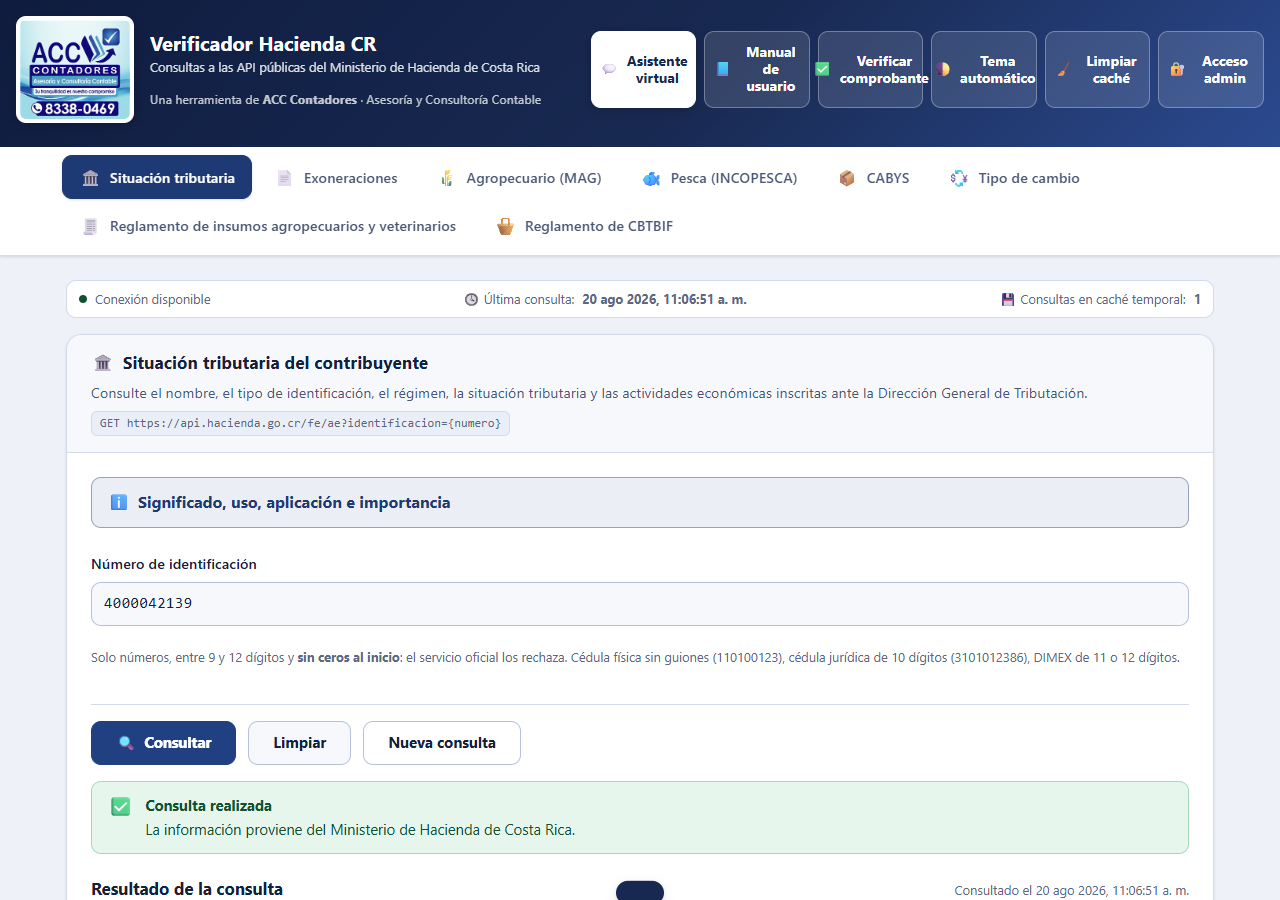
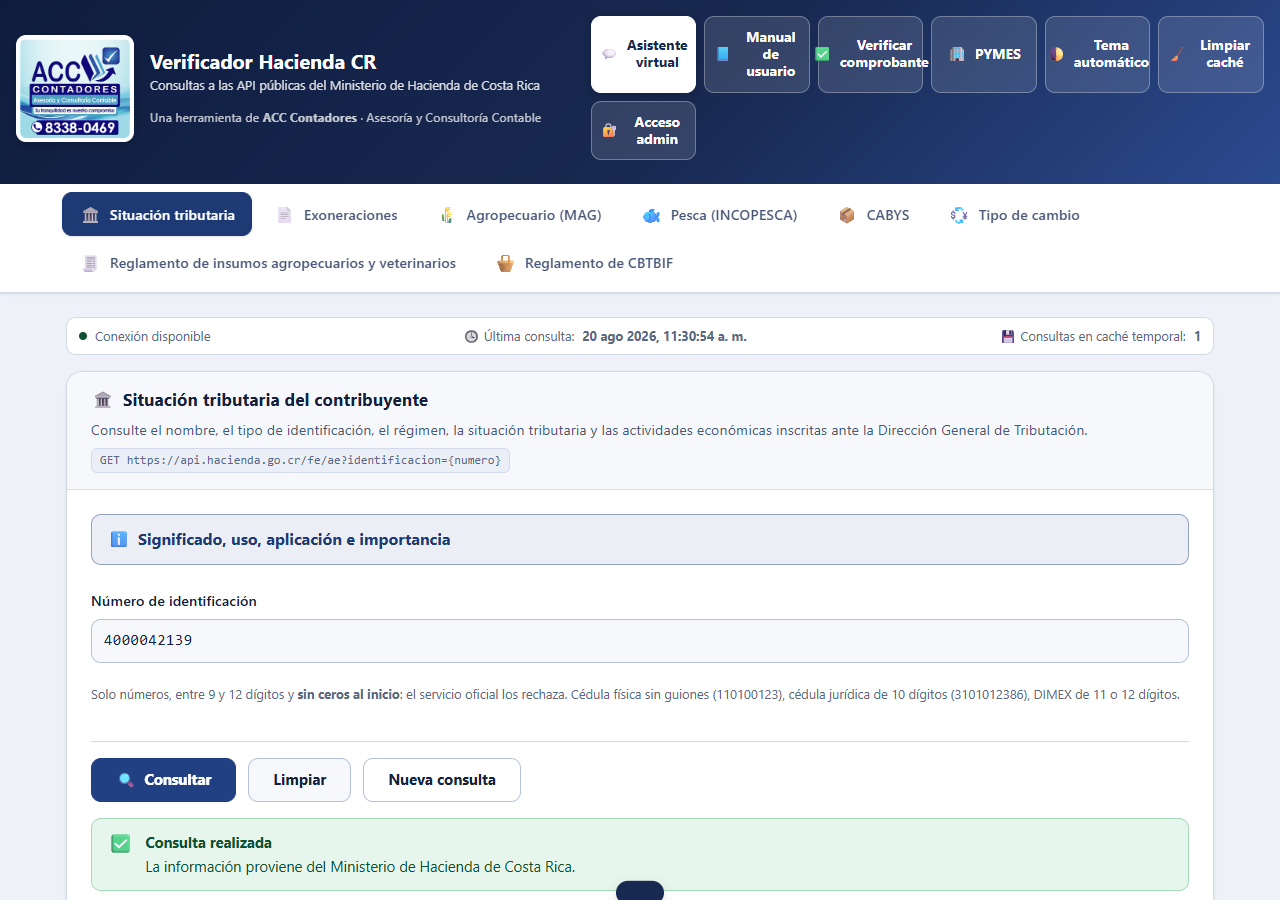
Agrega acceso al buscador oficial de PYMES activas (MEIC)
Enlaza a meic.go.cr/tramites-y-servicios/pymes-activas/, el buscador
en vivo del Ministerio de Economía, Industria y Comercio (41 000+
registros, actualizado a diario), en vez de incrustar una fotografía
mensual: el archivo descargable que publica MEIC pesa más de 10 MB y
ni él ni la tabla que lo sirve envían cabeceras CORS, así que no se
puede leer desde un fetch() en github.io. El botón sigue el mismo
patrón que «Verificar comprobante»: enlace de navegación deliberado,
abierto en pestaña nueva.

Changed region(s): [[0.0, 0.0, 1.0, 0.9956]]

diff --git a/index.html b/index.html
@@ -881,6 +881,13 @@ details.raw-wrap > summary{
         <span aria-hidden="true">✅</span>
         <span>Verificar comprobante</span>
       </a>
+      <a class="tool-btn" id="btn-pymes"
+         href="https://www.meic.go.cr/tramites-y-servicios/pymes-activas/"
+         target="_blank" rel="noopener noreferrer"
+         aria-label="Buscar PYMES activas en el sitio oficial del Ministerio de Economía, Industria y Comercio (abre en una pestaña nueva)">
+        <span aria-hidden="true">🏢</span>
+        <span>PYMES</span>
+      </a>
       <button type="button" class="tool-btn" id="btn-theme" aria-live="polite">
         <span aria-hidden="true" id="theme-ico">🌓</span>
         <span id="theme-label">Tema automático</span>
@@ -1012,6 +1019,7 @@ details.raw-wrap > summary{
       <h3>4. Herramientas del encabezado</h3>
       <ul>
         <li><strong>Verificar comprobante:</strong> abre el verificador oficial de comprobantes electrónicos de Hacienda en una pestaña nueva.</li>
+        <li><strong>PYMES:</strong> abre en una pestaña nueva el buscador oficial de PYMES activas del Ministerio de Economía, Industria y Comercio (MEIC), con más de 41&nbsp;000 registros actualizados a diario. Úselo para verificar si una empresa tiene la condición PYME vigente.</li>
         <li><strong>Asistente virtual:</strong> abre en una pestaña nueva el asistente de ACC Contadores, para consultas contables y tributarias, agendamiento de citas, cotizaciones y facturación electrónica. Úselo cuando el resultado de una consulta requiera interpretación o cuando necesite acompañamiento profesional para el trámite.</li>
         <li><strong>Tema automático:</strong> alterna entre apariencia automática, clara y oscura.</li>
         <li><strong>Limpiar caché:</strong> elimina de la memoria del navegador los resultados temporales de esta sesión.</li>

diff --git a/README.md b/README.md
@@ -118,12 +118,15 @@ Igual que el módulo anterior, no consulta ninguna API: busca sobre una lista de
 
 ### Accesos externos de la cabecera
 
-Además de los ocho módulos de consulta, la barra de herramientas ofrece dos accesos que **no son endpoints**: son enlaces que se abren en una pestaña nueva, con `rel="noopener noreferrer"`.
+Además de los ocho módulos de consulta, la barra de herramientas ofrece tres accesos que **no son endpoints**: son enlaces que se abren en una pestaña nueva, con `rel="noopener noreferrer"`.
 
 | Botón | Destino | Para qué sirve |
 |---|---|---|
 | ✅ Verificar comprobante | `ovitribucr.hacienda.go.cr/tico/comprobante/comprobante-electronico/` | Verificador oficial de comprobantes electrónicos del Ministerio de Hacienda |
+| 🏢 PYMES | `meic.go.cr/tramites-y-servicios/pymes-activas/` | Buscador oficial de PYMES activas del Ministerio de Economía, Industria y Comercio (MEIC), con más de 41 000 registros actualizados a diario |
 | 💬 Asistente virtual | `josancajimenez-debug.github.io/acc-asistente/` | Asistente Virtual de ACC Contadores: consultas contables y tributarias, agendamiento de citas, cotizaciones y facturación electrónica |
+
+El buscador de PYMES no se incrusta en `index.html` a propósito: el listado completo pesa más de 10 MB, se genera a diario y ni el archivo descargable ni la tabla que lo sirve envían cabeceras CORS, así que un `fetch()` desde `github.io` no podría leer la respuesta. Enlazar al buscador oficial de MEIC evita ambos problemas y entrega una consulta siempre vigente, en vez de una fotografía mensual que quedaría desactualizada en la propia aplicación.
 
 El Asistente virtual está también accesible desde el pie de página, junto a los datos de contacto, para quien llegue al final de una consulta y necesite acompañamiento profesional para interpretar el resultado.
 
